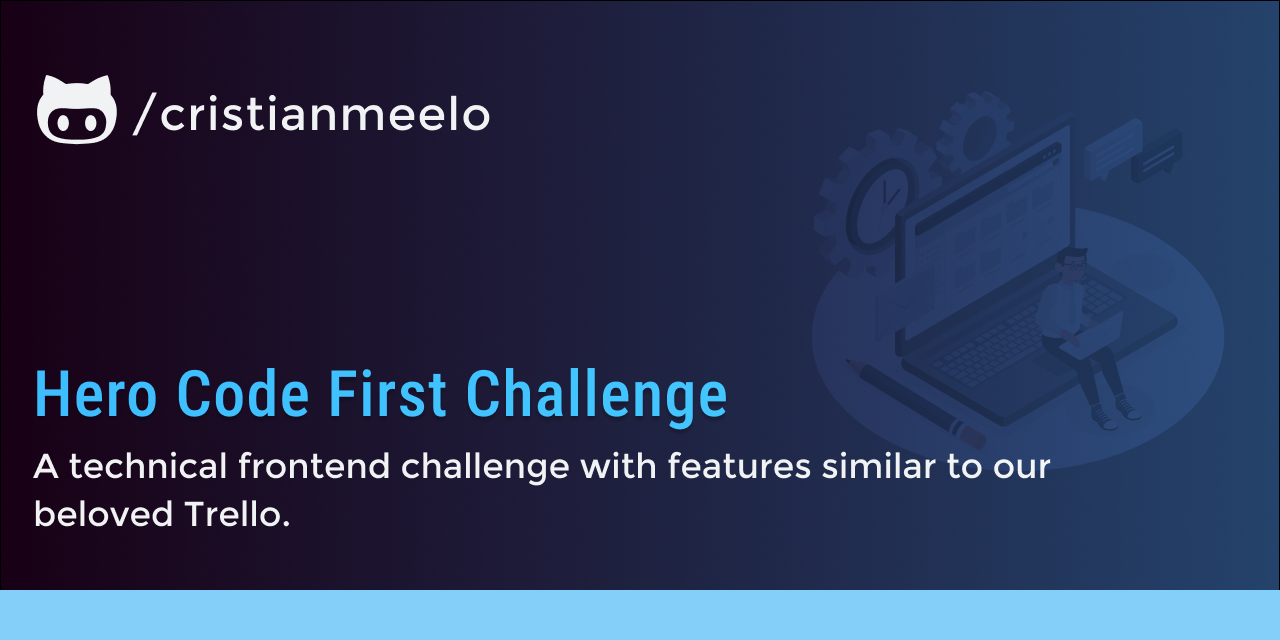
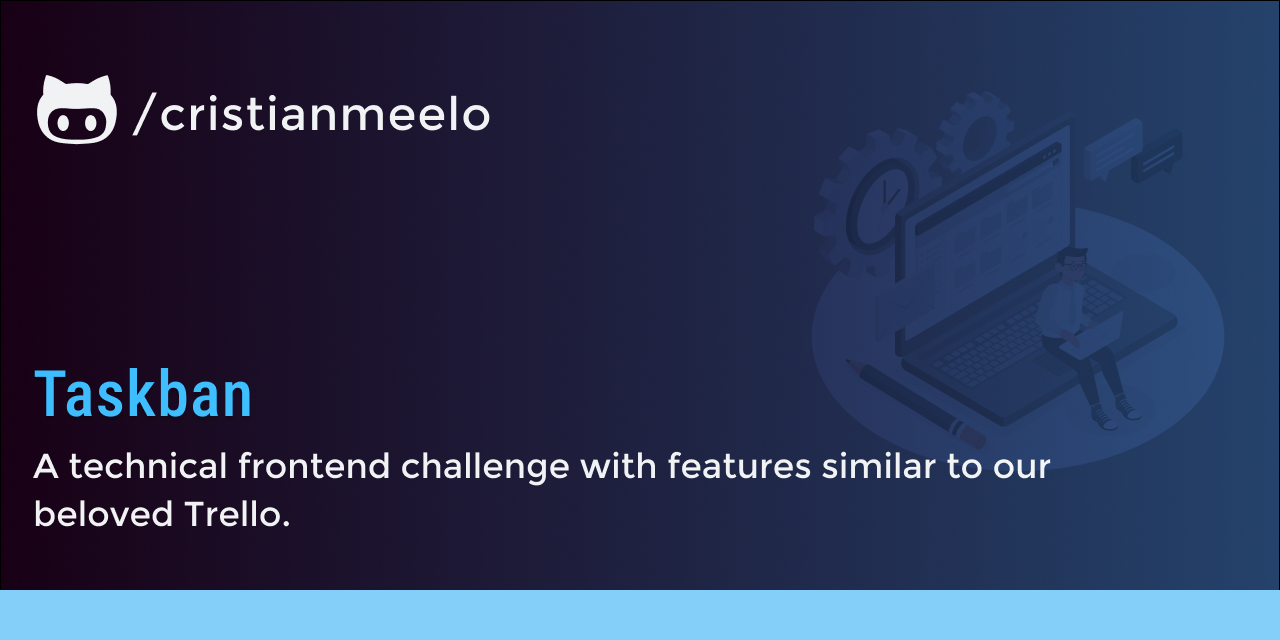
:books: docs: update readme.md

Changed region(s): [[0.0312, 0.5625, 0.5938, 0.6875]]

diff --git a/README.md b/README.md
@@ -17,7 +17,7 @@
 
 <br/>
 
-# Hero Code First Challenge
+# Taskban
 
 Bem vindos ao primeiro Tech Challenge da Hero Code. O objetivo deste challenge é preparar para um desafio técnico que é bastante comum em entrevistas de emprego, não só isso, mas também aprimorar habilidades de programação com o teste que foi preparado.
 
@@ -64,7 +64,7 @@ A ideia principal deste teste técnico é aprimorar os hardskills no frontend, e
 
 | :placard: Vitrine.Dev |                                                                                      |
 | --------------------- | ------------------------------------------------------------------------------------ |
-| :sparkles: Nome       | **Hero Code First Challenge**                                                        |
+| :sparkles: Nome       | **Taskban**                                                        |
 | :label: Tecnologias   | Vite, Typescript, Emotion, Recoil, Vercel Deployment, GitHub (tecnologias utilizadas) |
 | :rocket: URL          | https://challenge-frontend-herocode-react.vercel.app/                                |
 | :fire: Desafio        | https://github.com/HeroCodeBR/01-tech-challenge                                      |

diff --git a/README-EN.md b/README-EN.md
@@ -24,7 +24,7 @@
 
 <br/>
 
-# Hero Code First Challenge
+# Taskban
 
 Welcome to Hero Code's first Tech Challenge. The objective of this challenge is to prepare for a technical challenge that is quite common in job interviews, not only that, but also to improve programming skills with the test that was prepared.
 
@@ -65,7 +65,7 @@ The main idea of this technical test is to improve hardskills in the front
 
 | :placard: Vitrine.Dev |                                                                                   |
 | --------------------- | --------------------------------------------------------------------------------- |
-| :sparkles: Name       | **Hero Code First Challenge**                                                     |
+| :sparkles: Name       | **Taskban**                                                     |
 | :label: Technologies  | Vite, Typescript, Emotion, Recoil, Vercel Deployment, GitHub ( used Technologies) |
 | :rocket: URL          | https://challenge-frontend-herocode-react.vercel.app/                             |
 | :fire: Challenge      | https://github.com/HeroCodeBR/01-tech-challenge                                   |
